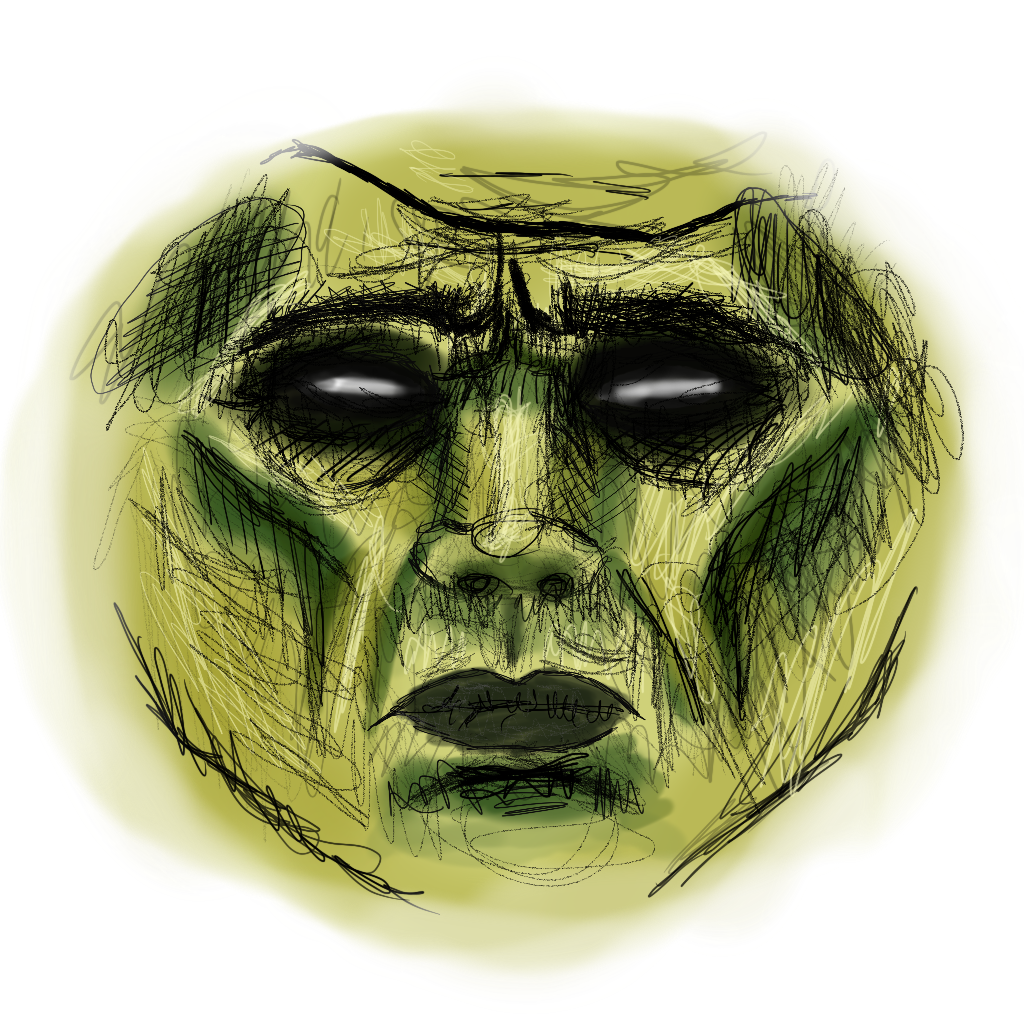
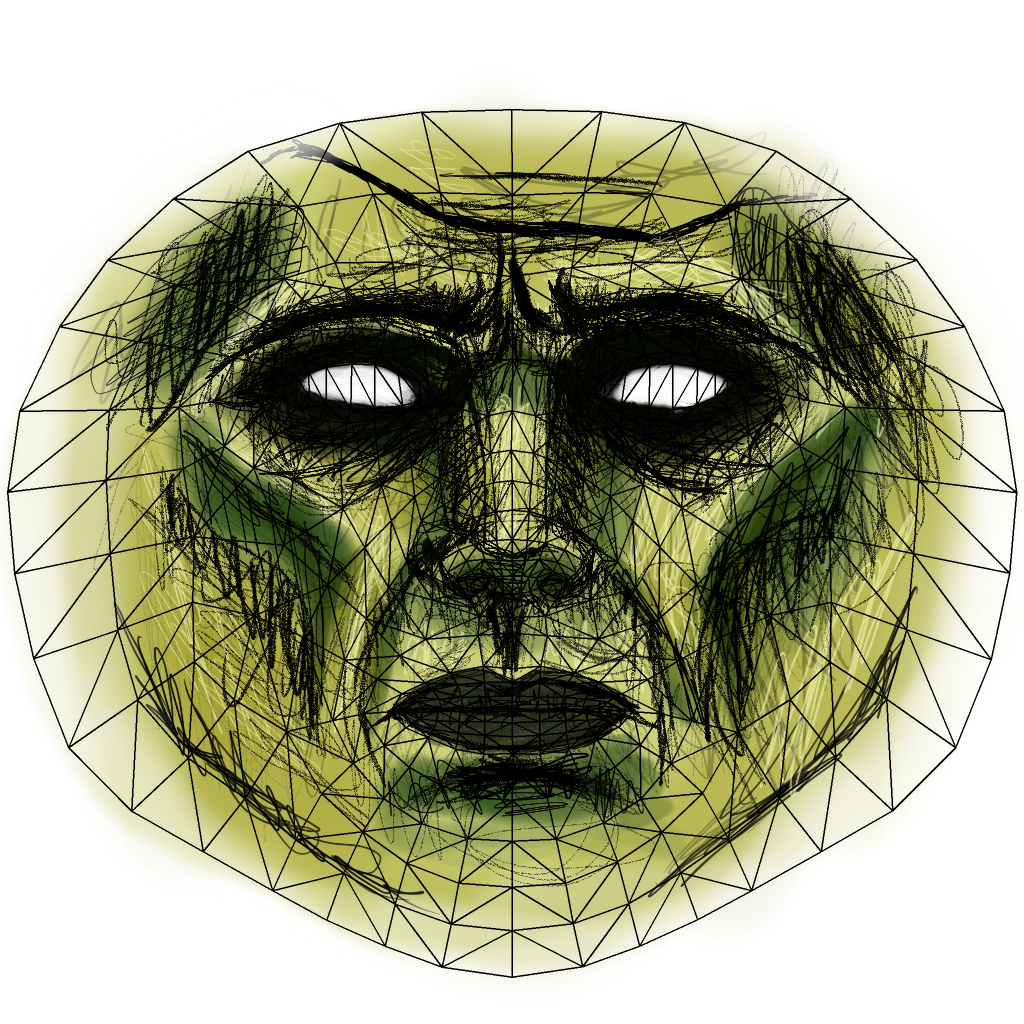
ok

diff --git a/bundle.js b/bundle.js
@@ -1,1 +1,1 @@
-(()=>{"use strict";window.ecs.registerComponent({name:"example-component",add:()=>{console.log("Component attached.")}});const e=JSON.parse('{"objects":{"47699d9e-18a5-4f88-a4f9-b8be92e8f74a":{"components":{},"geometry":null,"id":"47699d9e-18a5-4f88-a4f9-b8be92e8f74a","light":{"type":"ambient"},"material":null,"name":"Ambient Light","position":[10,5,5],"rotation":[0,0,0,1],"scale":[1,1,1],"parentId":"88453035-dc0f-486d-868a-8ff7c2fda864","order":0.4038940050501252},"a608ddd9-9379-464d-966f-5d8d8674c83c":{"camera":{"type":"perspective","xr":{"desktop":"AR","xrCameraType":"face","headset":"disabled","phone":"AR","face":{"meshGeometryFace":true,"meshGeometryEyes":true,"enableEars":false,"meshGeometryMouth":false}}},"components":{},"geometry":null,"id":"a608ddd9-9379-464d-966f-5d8d8674c83c","material":null,"name":"Camera","position":[0,2,3],"rotation":[0.0004436887233141012,0.9659425615285845,-0.25875089860082223,0.0016563336561801576],"scale":[1,1,1],"parentId":"88453035-dc0f-486d-868a-8ff7c2fda864","order":1.0308214152219775},"ac1989e3-3b71-49e2-a05f-e682aeb18c36":{"components":{},"geometry":null,"id":"ac1989e3-3b71-49e2-a05f-e682aeb18c36","light":{"intensity":1,"type":"directional"},"material":null,"name":"Directional Light","position":[20,50,10],"rotation":[0,0,0,1],"scale":[1,1,1],"parentId":"88453035-dc0f-486d-868a-8ff7c2fda864","order":0.6644431107322474},"8dafb8e0-6d1d-49f4-b70c-eeefdd1f525a":{"id":"8dafb8e0-6d1d-49f4-b70c-eeefdd1f525a","position":[0,2,0],"rotation":[0,0,0,1],"scale":[1,1,1],"geometry":null,"material":null,"parentId":"88453035-dc0f-486d-868a-8ff7c2fda864","components":{},"face":{"id":1,"addAttachmentState":false},"name":"Face","order":2.280933781074615},"e6e7a437-d35c-4225-b997-4a11a31a5e92":{"id":"e6e7a437-d35c-4225-b997-4a11a31a5e92","position":[0,-0.013957318305398037,0],"rotation":[0,0,0,1],"scale":[1,1,1],"geometry":{"type":"face","id":1},"material":{"type":"basic","color":"#FFFFFF","forceTransparent":true,"textureSrc":{"type":"asset","asset":"assets/frankenstein.png"}},"parentId":"8dafb8e0-6d1d-49f4-b70c-eeefdd1f525a","components":{"7fa7cd8a-c174-4689-8882-2831f7751a95":{"id":"7fa7cd8a-c174-4689-8882-2831f7751a95","name":"face-mesh-anchor","parameters":{}}},"name":"Face Mesh","order":1.305067560717054},"337ebbcc-ab1f-48ec-98b4-ee385e56c84f":{"id":"337ebbcc-ab1f-48ec-98b4-ee385e56c84f","position":[-0.2646223594741207,0.7748180003698835,0.8442520942404382],"rotation":[-0.6481995127373463,-0.022149996680197095,0.7609144064781942,-0.018868898962880958],"scale":[-0.35789585800686174,0.3578958580068611,0.35789585800686174],"geometry":null,"material":{"type":"basic","color":"#FFFFFF"},"parentId":"e6e7a437-d35c-4225-b997-4a11a31a5e92","components":{},"gltfModel":{"src":{"type":"asset","asset":"assets/bolt.glb"},"animationClip":"","loop":true},"name":"bolt.glb","order":1.9882042176214105},"a40f742e-021d-464f-a181-089f9202c4fd":{"id":"a40f742e-021d-464f-a181-089f9202c4fd","position":[0.37010812789133973,0.740454189224939,-0.12936101064206312],"rotation":[0.6835187822054175,-0.02123124571114342,0.729352738166807,0.01989703260682864],"scale":[-0.3578958580068619,0.35789585800686224,0.357895858006862],"geometry":null,"material":{"type":"basic","color":"#FFFFFF"},"parentId":"e6e7a437-d35c-4225-b997-4a11a31a5e92","components":{},"gltfModel":{"src":{"type":"asset","asset":"assets/bolt.glb"},"animationClip":"","loop":true},"name":"bolt.glb (1)","order":3.8581467965551584},"6dfb94e1-9cf9-4b4d-bff3-a4de74822892":{"id":"6dfb94e1-9cf9-4b4d-bff3-a4de74822892","position":[-2.076887748561788,1.2769478559280891,-0.31941382086381515],"rotation":[-0.08924703195290117,0.961150308076573,0.24937444658468375,-0.07770095213373794],"scale":[0.08733784005192392,0.08733784005192419,0.08733784005192434],"geometry":null,"material":null,"parentId":"a40f742e-021d-464f-a181-089f9202c4fd","components":{},"gltfModel":{"src":{"type":"asset","asset":"assets/stapples.glb"},"animationClip":"","loop":true},"name":"stapples.glb","order":1.1489409594392792},"abb0ce3d-6d1a-473c-9af3-11f718b9ec70":{"id":"abb0ce3d-6d1a-473c-9af3-11f718b9ec70","position":[-2.1525142624425677,1.410809073098318,-0.6872925439096897],"rotation":[-0.036667873718871896,0.9741827445717008,0.20082222049933565,-0.09640478706683275],"scale":[0.08733784005192391,0.08733784005192427,0.08733784005192437],"geometry":null,"material":null,"parentId":"a40f742e-021d-464f-a181-089f9202c4fd","components":{},"gltfModel":{"src":{"type":"asset","asset":"assets/stapples.glb"},"animationClip":"","loop":true},"name":"stapples.glb (1)","order":2.1637932697926554},"f509a794-1545-4995-b5d9-e7f03651b230":{"id":"f509a794-1545-4995-b5d9-e7f03651b230","position":[-2.163548608186466,1.532405261194853,-0.9705599700194304],"rotation":[-0.07445422009419325,0.984696844472557,0.12638710845646245,-0.09410096924032597],"scale":[0.08733784005192398,0.0873378400519243,0.08733784005192463],"geometry":null,"material":null,"parentId":"a40f742e-021d-464f-a181-089f9202c4fd","components":{},"gltfModel":{"src":{"type":"asset","asset":"assets/stapples.glb"},"animationClip":"","loop":true},"name":"stapples.glb (2)","order":3.7750784614780044},"27133f5b-491e-4e9b-91cc-cd523bc9acff":{"id":"27133f5b-491e-4e9b-91cc-cd523bc9acff","position":[-2.1016651289305797,1.5323353943391727,-1.307210093222782],"rotation":[-0.012785683741692807,0.9917502256190489,0.029085899495762155,0.12418545295784669],"scale":[0.08733784005192383,0.08733784005192434,0.08733784005192471],"geometry":null,"material":null,"parentId":"a40f742e-021d-464f-a181-089f9202c4fd","components":{},"gltfModel":{"src":{"type":"asset","asset":"assets/stapples.glb"},"animationClip":"","loop":true},"name":"stapples.glb (3)","order":4.9836313196698505},"faec2005-878f-44b0-abe0-c8ee1d6c6597":{"id":"faec2005-878f-44b0-abe0-c8ee1d6c6597","position":[-2.027353994297734,1.4990565016881865,-1.583565041603442],"rotation":[0.031501375351991365,0.9455281828210377,0.05159726985535147,0.3198778526024481],"scale":[0.08733784005192391,0.08733784005192448,0.08733784005192478],"geometry":null,"material":null,"parentId":"a40f742e-021d-464f-a181-089f9202c4fd","components":{},"gltfModel":{"src":{"type":"asset","asset":"assets/stapples.glb"},"animationClip":"","loop":true},"name":"stapples.glb (4)","order":6.947659964224261},"d74223f9-2ee6-4386-b8a2-1502b9067353":{"id":"d74223f9-2ee6-4386-b8a2-1502b9067353","position":[-1.9233190465647358,1.060066894262655,-0.0975041102101647],"rotation":[-0.019996964298193184,0.8711188977584398,0.4642303002807902,-0.15887798994255004],"scale":[0.08733784005192397,0.0873378400519242,0.08733784005192444],"geometry":null,"material":null,"parentId":"a40f742e-021d-464f-a181-089f9202c4fd","components":{},"gltfModel":{"src":{"type":"asset","asset":"assets/stapples.glb"},"animationClip":"","loop":true},"name":"stapples.glb (5)","order":1.739510395089917}},"spaces":{"88453035-dc0f-486d-868a-8ff7c2fda864":{"id":"88453035-dc0f-486d-868a-8ff7c2fda864","name":"Default Space","activeCamera":"a608ddd9-9379-464d-966f-5d8d8674c83c"}},"entrySpaceId":"88453035-dc0f-486d-868a-8ff7c2fda864"}');delete e.history,delete e.historyVersion,window.ecs.application.init(e)})();
+(()=>{"use strict";window.ecs.registerComponent({name:"example-component",add:()=>{console.log("Component attached.")}});const e=JSON.parse('{"objects":{"47699d9e-18a5-4f88-a4f9-b8be92e8f74a":{"components":{},"geometry":null,"id":"47699d9e-18a5-4f88-a4f9-b8be92e8f74a","light":{"type":"ambient"},"material":null,"name":"Ambient Light","position":[10,5,5],"rotation":[0,0,0,1],"scale":[1,1,1],"parentId":"88453035-dc0f-486d-868a-8ff7c2fda864","order":0.4038940050501252},"a608ddd9-9379-464d-966f-5d8d8674c83c":{"camera":{"type":"perspective","xr":{"desktop":"AR","xrCameraType":"face","headset":"disabled","phone":"AR","face":{"meshGeometryFace":true,"meshGeometryEyes":true,"enableEars":false,"meshGeometryMouth":false}}},"components":{},"geometry":null,"id":"a608ddd9-9379-464d-966f-5d8d8674c83c","material":null,"name":"Camera","position":[0,2,3],"rotation":[0.0004436887233141012,0.9659425615285845,-0.25875089860082223,0.0016563336561801576],"scale":[1,1,1],"parentId":"88453035-dc0f-486d-868a-8ff7c2fda864","order":1.0308214152219775},"ac1989e3-3b71-49e2-a05f-e682aeb18c36":{"components":{},"geometry":null,"id":"ac1989e3-3b71-49e2-a05f-e682aeb18c36","light":{"intensity":1,"type":"directional"},"material":null,"name":"Directional Light","position":[20,50,10],"rotation":[0,0,0,1],"scale":[1,1,1],"parentId":"88453035-dc0f-486d-868a-8ff7c2fda864","order":0.6644431107322474},"8dafb8e0-6d1d-49f4-b70c-eeefdd1f525a":{"id":"8dafb8e0-6d1d-49f4-b70c-eeefdd1f525a","position":[0,2,0],"rotation":[0,0,0,1],"scale":[1,1,1],"geometry":null,"material":null,"parentId":"88453035-dc0f-486d-868a-8ff7c2fda864","components":{},"face":{"id":1,"addAttachmentState":false},"name":"Face","order":2.280933781074615},"e6e7a437-d35c-4225-b997-4a11a31a5e92":{"id":"e6e7a437-d35c-4225-b997-4a11a31a5e92","position":[0,-0.013957318305398037,0],"rotation":[0,0,0,1],"scale":[1,1,1],"geometry":{"type":"face","id":1},"material":{"type":"basic","color":"#FFFFFF","forceTransparent":true,"textureSrc":{"type":"asset","asset":"assets/frankenstein.png"}},"parentId":"8dafb8e0-6d1d-49f4-b70c-eeefdd1f525a","components":{"7fa7cd8a-c174-4689-8882-2831f7751a95":{"id":"7fa7cd8a-c174-4689-8882-2831f7751a95","name":"face-mesh-anchor","parameters":{}}},"name":"Face Mesh","order":1.305067560717054},"337ebbcc-ab1f-48ec-98b4-ee385e56c84f":{"id":"337ebbcc-ab1f-48ec-98b4-ee385e56c84f","position":[-0.2646223594741207,0.7748180003698835,0.8442520942404382],"rotation":[-0.6481995127373463,-0.022149996680197095,0.7609144064781942,-0.018868898962880958],"scale":[-0.35789585800686174,0.3578958580068611,0.35789585800686174],"geometry":null,"material":{"type":"basic","color":"#FFFFFF"},"parentId":"e6e7a437-d35c-4225-b997-4a11a31a5e92","components":{},"gltfModel":{"src":{"type":"asset","asset":"assets/bolt.glb"},"animationClip":"","loop":true},"name":"bolt.glb","order":1.9882042176214105},"a40f742e-021d-464f-a181-089f9202c4fd":{"id":"a40f742e-021d-464f-a181-089f9202c4fd","position":[0.37010812789133973,0.740454189224939,-0.12936101064206312],"rotation":[0.6835187822054175,-0.02123124571114342,0.729352738166807,0.01989703260682864],"scale":[-0.3578958580068619,0.35789585800686224,0.357895858006862],"geometry":null,"material":{"type":"basic","color":"#FFFFFF"},"parentId":"e6e7a437-d35c-4225-b997-4a11a31a5e92","components":{},"gltfModel":{"src":{"type":"asset","asset":"assets/bolt.glb"},"animationClip":"","loop":true},"name":"bolt.glb (1)","order":3.8581467965551584},"6dfb94e1-9cf9-4b4d-bff3-a4de74822892":{"id":"6dfb94e1-9cf9-4b4d-bff3-a4de74822892","position":[-2.1527800614478574,1.2766611281718,-0.3144930435079656],"rotation":[-0.08924703195290117,0.961150308076573,0.2493744465846837,-0.07770095213373793],"scale":[0.08733784005192394,0.08733784005192419,0.08733784005192438],"geometry":null,"material":null,"parentId":"a40f742e-021d-464f-a181-089f9202c4fd","components":{},"gltfModel":{"src":{"type":"asset","asset":"assets/stapples.glb"},"animationClip":"","loop":true},"name":"stapples.glb","order":1.1489409594392792},"abb0ce3d-6d1a-473c-9af3-11f718b9ec70":{"id":"abb0ce3d-6d1a-473c-9af3-11f718b9ec70","position":[-2.228406575328638,1.4105223453420273,-0.6823717665538402],"rotation":[-0.036667873718871896,0.9741827445717008,0.20082222049933565,-0.09640478706683278],"scale":[0.08733784005192392,0.08733784005192427,0.08733784005192437],"geometry":null,"material":null,"parentId":"a40f742e-021d-464f-a181-089f9202c4fd","components":{},"gltfModel":{"src":{"type":"asset","asset":"assets/stapples.glb"},"animationClip":"","loop":true},"name":"stapples.glb (1)","order":2.1637932697926554},"f509a794-1545-4995-b5d9-e7f03651b230":{"id":"f509a794-1545-4995-b5d9-e7f03651b230","position":[-2.239440921072536,1.5321185334385632,-0.965639192663581],"rotation":[-0.07445422009419325,0.984696844472557,0.12638710845646245,-0.09410096924032597],"scale":[0.08733784005192398,0.0873378400519243,0.08733784005192467],"geometry":null,"material":null,"parentId":"a40f742e-021d-464f-a181-089f9202c4fd","components":{},"gltfModel":{"src":{"type":"asset","asset":"assets/stapples.glb"},"animationClip":"","loop":true},"name":"stapples.glb (2)","order":3.7750784614780044},"27133f5b-491e-4e9b-91cc-cd523bc9acff":{"id":"27133f5b-491e-4e9b-91cc-cd523bc9acff","position":[-2.17755744181665,1.5320486665828827,-1.3022893158669326],"rotation":[-0.012785683741692803,0.9917502256190489,0.02908589949576214,0.12418545295784666],"scale":[0.08733784005192385,0.08733784005192437,0.08733784005192477],"geometry":null,"material":null,"parentId":"a40f742e-021d-464f-a181-089f9202c4fd","components":{},"gltfModel":{"src":{"type":"asset","asset":"assets/stapples.glb"},"animationClip":"","loop":true},"name":"stapples.glb (3)","order":4.9836313196698505},"faec2005-878f-44b0-abe0-c8ee1d6c6597":{"id":"faec2005-878f-44b0-abe0-c8ee1d6c6597","position":[-2.103246307183804,1.498769773931894,-1.5786442642475926],"rotation":[0.03150137535199134,0.9455281828210378,0.051597269855351464,0.31987785260244783],"scale":[0.08733784005192399,0.0873378400519245,0.08733784005192485],"geometry":null,"material":null,"parentId":"a40f742e-021d-464f-a181-089f9202c4fd","components":{},"gltfModel":{"src":{"type":"asset","asset":"assets/stapples.glb"},"animationClip":"","loop":true},"name":"stapples.glb (4)","order":6.947659964224261},"d74223f9-2ee6-4386-b8a2-1502b9067353":{"id":"d74223f9-2ee6-4386-b8a2-1502b9067353","position":[-1.9992113594508063,1.0597801665063642,-0.09258333285431486],"rotation":[-0.019996964298193202,0.8711188977584398,0.4642303002807903,-0.15887798994255006],"scale":[0.08733784005192397,0.0873378400519242,0.08733784005192444],"geometry":null,"material":null,"parentId":"a40f742e-021d-464f-a181-089f9202c4fd","components":{},"gltfModel":{"src":{"type":"asset","asset":"assets/stapples.glb"},"animationClip":"","loop":true},"name":"stapples.glb (5)","order":1.739510395089917}},"spaces":{"88453035-dc0f-486d-868a-8ff7c2fda864":{"id":"88453035-dc0f-486d-868a-8ff7c2fda864","name":"Default Space","activeCamera":"a608ddd9-9379-464d-966f-5d8d8674c83c"}},"entrySpaceId":"88453035-dc0f-486d-868a-8ff7c2fda864"}');delete e.history,delete e.historyVersion,window.ecs.application.init(e)})();
